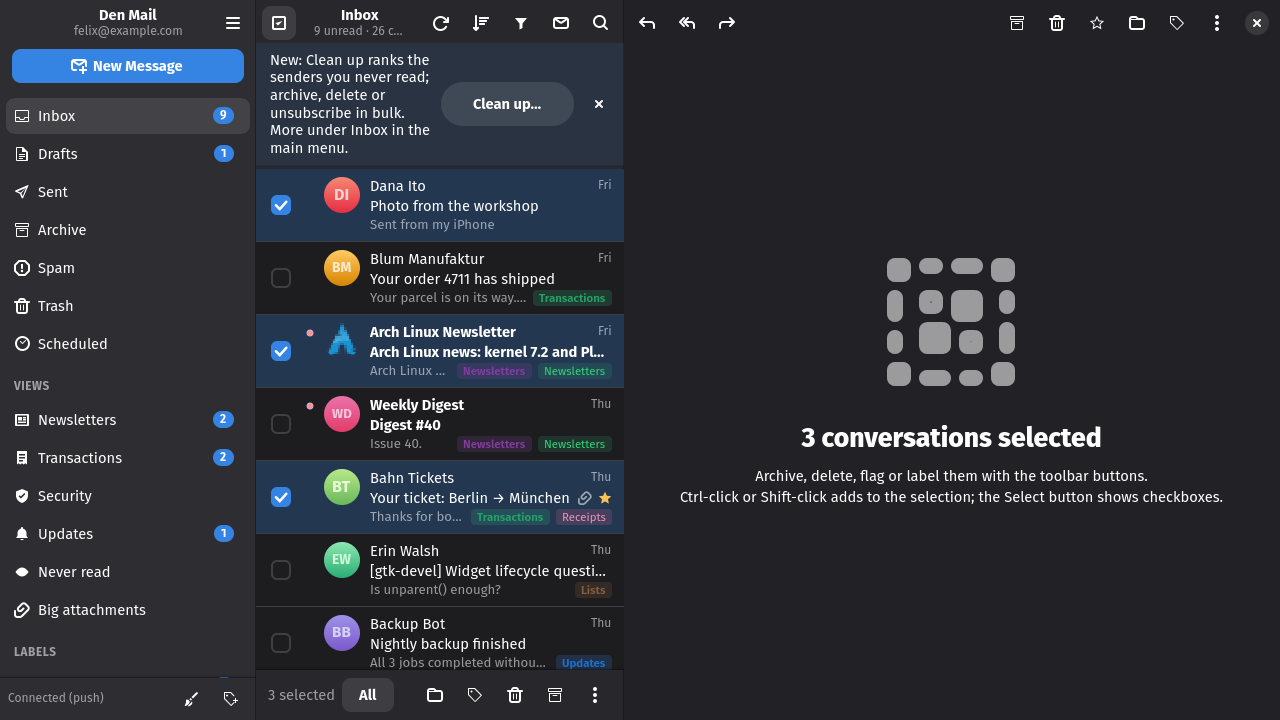
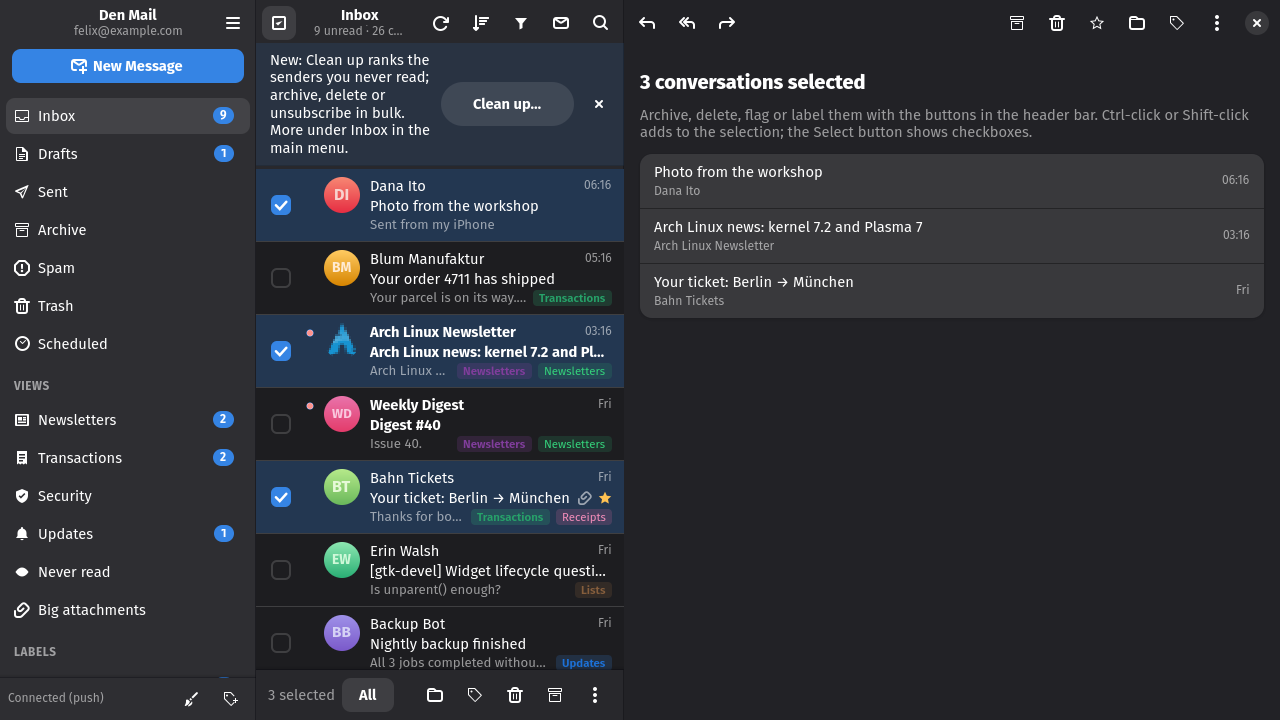
Selection: the reading pane lists the selected conversations, with Unsubscribe (#154)
With several conversations selected the pane only said how many. It now shows
them as a stack (the first dozen, then how many more), with sender, subject
and date, and the hint names the header bar, where the bulk actions are. When
every selected conversation comes from one sender, a sender group in the
Newsletters view say, and that sender's mail carries a List-Unsubscribe
header, an Unsubscribe button sits on the page. The plan comes from a cached
body when there is one, else from one request for the newest conversation's
headers; the button then asks and runs the same way as the one in a message
header, which now shares that code. The reading guide and the selection
pictures follow.

Closes #151

Claude-Session: https://claude.ai/code/session_01VDpY5EP7thEdxRV4pVnbq3

diff --git a/den_mail/ui/selection.py b/den_mail/ui/selection.py
@@ -1,0 +1,138 @@
+"""The reading pane while several conversations are selected (#151).
+
+Instead of a count alone: the selected conversations as a stack (the first
+dozen, then how many more), and, when they all come from one sender whose mail
+carries List-Unsubscribe, an Unsubscribe button that works like the one in a
+message header.
+"""
+
+from __future__ import annotations
+
+from collections.abc import Callable
+
+from gi.repository import Adw, Gtk
+
+from ..models.thread import ThreadObject
+from ..newsletters import HEADER_POST, HEADER_UNSUBSCRIBE, cached_plan
+from ..unsubscribe import UnsubscribePlan, parse_list_unsubscribe
+from .a11y import watch as _a11y_watch
+
+SHOWN = 12   # rows before "and N more"
+
+OnUnsubscribe = Callable[[dict, UnsubscribePlan, Gtk.Button, str], None]
+
+
+class SelectionPage(Gtk.Box):
+    def __init__(self, db, engine, config, on_unsubscribe: OnUnsubscribe):
+        super().__init__(orientation=Gtk.Orientation.VERTICAL, spacing=12, valign=Gtk.Align.START)
+        self.db = db
+        self.engine = engine
+        self.config = config
+        self.on_unsubscribe = on_unsubscribe
+        for side in ("start", "end", "top", "bottom"):
+            getattr(self, f"set_margin_{side}")(16 if side in ("start", "end") else 24)
+        self.title = Gtk.Label(xalign=0, wrap=True)
+        self.title.add_css_class("title-2")
+        self.append(self.title)
+        self.hint = Gtk.Label(xalign=0, wrap=True)
+        self.hint.add_css_class("dim-label")
+        self.append(self.hint)
+        self.unsubscribe = Gtk.Button(halign=Gtk.Align.START, visible=False)
+        self.unsubscribe.connect("clicked", self._on_unsubscribe)
+        self.append(self.unsubscribe)
+        self.rows = Gtk.ListBox(selection_mode=Gtk.SelectionMode.NONE)
+        self.rows.add_css_class("boxed-list")
+        self.append(self.rows)
+        self._threads: list[ThreadObject] = []
+        self._email: dict | None = None
+        self._plan: UnsubscribePlan | None = None
+        self._sender = ""
+        self._generation = 0
+        _a11y_watch(self)
+
+    def show(self, threads: list[ThreadObject]) -> None:
+        self._threads = list(threads)
+        n = len(threads)
+        senders = {(t.sender_email or "").lower() for t in threads} - {""}
+        self._sender = next(iter(senders)) if len(senders) == 1 else ""
+        who = ""
+        if self._sender:
+            who = next((t.sender_name for t in threads if t.sender_name), "") or threads[0].participants or self._sender
+        self.title.set_label(f"{n} conversations from {who}" if who else f"{n} conversations selected")
+        self.hint.set_label("Archive, delete, flag or label them with the buttons in the header bar. "
+                            "Ctrl-click or Shift-click adds to the selection; the Select button shows checkboxes.")
+        while child := self.rows.get_first_child():
+            self.rows.remove(child)
+        for t in threads[:SHOWN]:
+            self.rows.append(self._row(t))
+        if n > SHOWN:
+            more = Adw.ActionRow(title=f"and {n - SHOWN} more", activatable=False)
+            more.add_css_class("dim-label")
+            self.rows.append(more)
+        self._find_plan()
+
+    @staticmethod
+    def _row(t: ThreadObject) -> Adw.ActionRow:
+        row = Adw.ActionRow(title=t.subject or "(no subject)", activatable=False, use_markup=False)
+        who = t.sender_name or t.participants
+        row.set_subtitle(f"{who} · {t.count} messages" if t.count > 1 else who)
+        when = Gtk.Label(label=t.date_text, valign=Gtk.Align.CENTER)
+        when.add_css_class("dim-label")
+        when.add_css_class("caption")
+        row.add_suffix(when)
+        if t.unread:
+            row.add_css_class("unread")
+        return row
+
+    # ------------------------------------------------------------ unsubscribe
+
+    def _find_plan(self) -> None:
+        """Offer Unsubscribe for a single-sender selection: from a cached body first, else after
+        one request for the newest conversation's headers."""
+        self._generation += 1
+        generation = self._generation
+        self._email, self._plan = None, None
+        self.unsubscribe.set_visible(False)
+        if not self._sender:
+            return
+        found = cached_plan(self.db, [t.email_id for t in self._threads])
+        if found is not None:
+            self._offer(*found)
+            return
+        first = self._threads[0].email_id
+
+        def got(headers: dict) -> None:
+            if generation != self._generation:
+                return   # the selection moved on
+            plan = parse_list_unsubscribe(headers.get(HEADER_UNSUBSCRIBE), headers.get(HEADER_POST))
+            if plan is not None:
+                email = dict(self.db.get_email(first) or {"id": first})
+                email.update(headers)
+                self._offer(email, plan)
+
+        self.engine.fetch_email_headers(first, [HEADER_UNSUBSCRIBE, HEADER_POST], got, lambda message: None)
+
+    def _offer(self, email: dict, plan: UnsubscribePlan) -> None:
+        self._email, self._plan = email, plan
+        self.refresh()
+
+    def refresh(self) -> None:
+        """Relabel the button after an unsubscribe went through (here or in a message card)."""
+        plan = self._plan
+        self.unsubscribe.set_visible(plan is not None)
+        if plan is None:
+            return
+        when = self.config.unsubscribed().get(self._sender)
+        self.unsubscribe.set_label("Unsubscribed" if when else "Unsubscribe")
+        if when:
+            self.unsubscribe.add_css_class("dim-label")
+        else:
+            self.unsubscribe.remove_css_class("dim-label")
+        how = {"one-click": f"Send an unsubscribe request to {plan.target}",
+               "browser": f"Open the unsubscribe page at {plan.target}",
+               "mailto": f"Send an unsubscribe message to {plan.target}"}[plan.kind]
+        self.unsubscribe.set_tooltip_text((f"Unsubscribed on {when}. " if when else "") + how)
+
+    def _on_unsubscribe(self, _button) -> None:
+        if self._email is not None and self._plan is not None:
+            self.on_unsubscribe(self._email, self._plan, self.unsubscribe, self._sender)

diff --git a/den_mail/ui/conversation.py b/den_mail/ui/conversation.py
@@ -17,6 +17,7 @@ from ..summaries import Summariser, worth_summarising
 from ..unsubscribe import identity_for, parse_list_unsubscribe
 from .a11y import watch as _a11y_watch
 from .message_body import MessageBody, warm_up_renderer
+from .selection import SelectionPage
 from .widgets import avatar, confirm, copy_text, human_size, open_uri, toast
 
 COLUMN_WIDTH = 980  # the message column's maximum width
@@ -698,8 +699,10 @@ class ConversationView(Adw.NavigationPage):
         self.stack = Gtk.Stack(transition_type=Gtk.StackTransitionType.CROSSFADE)
         self.placeholder = kanji_placeholder(config)
         self.stack.add_named(self.placeholder, "empty")
-        self.multi = Adw.StatusPage(icon_name="edit-select-all-symbolic", title="Multiple conversations selected")
-        self.stack.add_named(self.multi, "multi")
+        # Several conversations selected (#151): a stack of them, and Unsubscribe for one sender.
+        self.multi = SelectionPage(db, engine, config, self.confirm_unsubscribe)
+        self.stack.add_named(Gtk.ScrolledWindow(child=StartClamp(self.multi, COLUMN_WIDTH),
+                                                hscrollbar_policy=Gtk.PolicyType.NEVER), "multi")
         self.scrolled = Gtk.ScrolledWindow(hscrollbar_policy=Gtk.PolicyType.NEVER, vexpand=True)
         self.content = Gtk.Box(orientation=Gtk.Orientation.VERTICAL, spacing=8)
         self.content.set_margin_start(16)
@@ -858,22 +861,25 @@ class ConversationView(Adw.NavigationPage):
         self._confirm_unsubscribe(card)
 
     def _confirm_unsubscribe(self, card: MessageCard) -> None:
-        plan = card.unsubscribe_plan
-        sender = address_display((card.email.get("from") or [{}])[0]) or card.sender_email or "this sender"
+        self.confirm_unsubscribe(card.email, card.unsubscribe_plan, card.unsubscribe_btn, card.sender_email or "")
+
+    def confirm_unsubscribe(self, email: dict, plan, button: Gtk.Button, sender_email: str) -> None:
+        """Ask, then carry out `plan` for the sender of `email`; `button` waits meanwhile
+        (a message card's button, or the selection page's)."""
+        sender = address_display((email.get("from") or [{}])[0]) or sender_email or "this sender"
         body = {"one-click": f"Sends an unsubscribe request to {plan.target}.",
                 "browser": f"Opens the sender's unsubscribe page at {plan.target} in your browser.",
                 "mailto": f"Sends an unsubscribe message to {plan.target}."}[plan.kind]
         if plan.kind == "mailto":
-            ident = self.identity_for(card.email)
+            ident = self.identity_for(email)
             if ident:
                 body += f" It goes out from {ident.get('email')}."
         confirm(self, f"Unsubscribe from {sender}?", body, "Unsubscribe", False,
-                lambda: self._run_unsubscribe(card, plan))
+                lambda: self._run_unsubscribe(email, plan, button, sender_email))
 
-    def _run_unsubscribe(self, card: MessageCard, plan) -> None:
+    def _run_unsubscribe(self, email: dict, plan, button: Gtk.Button, sender_email: str) -> None:
         from .newsletters import done_text, run_unsubscribe
-        sender_email = (card.sender_email or "").lower()
-        button = card.unsubscribe_btn
+        sender_email = sender_email.lower()
         button.set_sensitive(False)
 
         def done(used) -> None:
@@ -882,13 +888,14 @@ class ConversationView(Adw.NavigationPage):
             for c in self.cards.values():
                 if (c.sender_email or "").lower() == sender_email:
                     c.refresh_unsubscribe()
+            self.multi.refresh()
             toast(self, done_text(used), 4)
 
         def failed(message: str) -> None:
             button.set_sensitive(True)
             toast(self, message, 6)
 
-        run_unsubscribe(self.engine, self.db, card.email, plan, self.get_root(), done, failed,
+        run_unsubscribe(self.engine, self.db, email, plan, self.get_root(), done, failed,
                         lambda note: toast(self, note, 6))
 
     def identity_for(self, email: dict) -> dict | None:
@@ -927,10 +934,9 @@ class ConversationView(Adw.NavigationPage):
         self.summary_bar.set_visible(False)
         self.stack.set_visible_child_name("empty")
 
-    def show_multi(self, count: int) -> None:
+    def show_multi(self, threads: list[ThreadObject]) -> None:
         self.thread_id = None
-        self.multi.set_title(f"{count} conversations selected")
-        self.multi.set_description("Archive, delete, flag or label them with the buttons in the header bar.\nCtrl-click or Shift-click adds to the selection; the Select button shows checkboxes.")
+        self.multi.show(threads)
         self.stack.set_visible_child_name("multi")
 
     def show_thread(self, thread: ThreadObject, mailbox_id: str | None) -> None:

diff --git a/tests/test_selection.py b/tests/test_selection.py
@@ -1,0 +1,33 @@
+"""The selection page's unsubscribe lookup (#151): a plan from cached bodies only."""
+
+from den_mail.newsletters import HEADER_POST, HEADER_UNSUBSCRIBE, cached_plan
+
+
+class FakeDb:
+    def __init__(self, rows: dict, bodies: dict):
+        self.rows, self.bodies = rows, bodies
+
+    def get_email(self, email_id):
+        return self.rows.get(email_id)
+
+    def get_email_body(self, email_id):
+        return self.bodies.get(email_id)
+
+
+HEADER = "<https://news.example/unsub?u=7>, <mailto:leave@news.example>"
+
+
+def test_first_cached_body_with_a_header_wins():
+    db = FakeDb({"a": {"id": "a", "from": [{"email": "n@news.example"}]}, "b": {"id": "b"}},
+                {"a": {"htmlBody": []},                       # cached without the header keys: skipped
+                 "b": {HEADER_UNSUBSCRIBE: HEADER, HEADER_POST: "List-Unsubscribe=One-Click"}})
+    found = cached_plan(db, ["a", "b", "c"])
+    assert found is not None
+    email, plan = found
+    assert email["id"] == "b" and email[HEADER_UNSUBSCRIBE] == HEADER
+    assert plan.kind == "one-click"
+
+
+def test_no_plan_without_a_cached_header():
+    db = FakeDb({"a": {"id": "a"}}, {"a": {HEADER_UNSUBSCRIBE: None, HEADER_POST: None}})
+    assert cached_plan(db, ["a", "missing"]) is None

diff --git a/den_mail/newsletters.py b/den_mail/newsletters.py
@@ -16,6 +16,22 @@ LIST_MAIL_PROPERTIES = ["id", "threadId", "from", "to", "cc", "receivedAt", "key
 GET_BATCH = 500
 
 
+def cached_plan(db, email_ids: list[str]) -> tuple[dict, UnsubscribePlan] | None:
+    """The first of `email_ids` whose cached body carries a List-Unsubscribe header, with its
+    plan: the message (list row plus headers) and the plan, or None when no cached body has one.
+    A body without the header is skipped, and a body from before the headers were cached is too."""
+    for email_id in email_ids:
+        body = db.get_email_body(email_id)
+        if not body or HEADER_UNSUBSCRIBE not in body:
+            continue
+        plan = parse_list_unsubscribe(body.get(HEADER_UNSUBSCRIBE), body.get(HEADER_POST))
+        if plan is not None:
+            email = dict(db.get_email(email_id) or {"id": email_id})
+            email.update({k: body[k] for k in (HEADER_UNSUBSCRIBE, HEADER_POST) if k in body})
+            return email, plan
+    return None
+
+
 def fetch_list_mail(client: JMAPClient, trash_junk: list[str], limit: int = 2000) -> list[dict]:
     """The newest `limit` messages outside Trash and Spam that carry a List-Unsubscribe header."""
     acc = client.session.account_id

diff --git a/den_mail/ui/window.py b/den_mail/ui/window.py
@@ -1031,7 +1031,7 @@ class MainWindow(Adw.ApplicationWindow):
                 if unread:
                     self.engine.perform(actions.mark_read(unread, True))
         elif threads:
-            self.conversation.show_multi(len(threads))
+            self.conversation.show_multi(threads)
         else:
             self.conversation.clear()
 

diff --git a/docs/guide/reading.md b/docs/guide/reading.md
@@ -31,6 +31,10 @@ sender, archive. Undo is in the toast.
 
 The **Select** button turns on checkboxes and a bar with the bulk actions.
 Outside that mode, Ctrl-click and Shift-click extend the selection as usual.
+While several conversations are selected, the reading pane lists them, and
+the archive, delete, flag, move and label buttons in its header bar act on
+all of them. A selection from one sender whose mail carries an unsubscribe
+header (a sender group, say) gets an **Unsubscribe** button on that page.
 
 ![Selection mode with three conversations checked](../../data/screenshots/selection.png)
 

diff --git a/changelog.d/151-selection-page.features.md b/changelog.d/151-selection-page.features.md
@@ -1,0 +1,1 @@
+Selection: with several conversations selected the reading pane lists them, and a selection from one sender with List-Unsubscribe gets an Unsubscribe button
